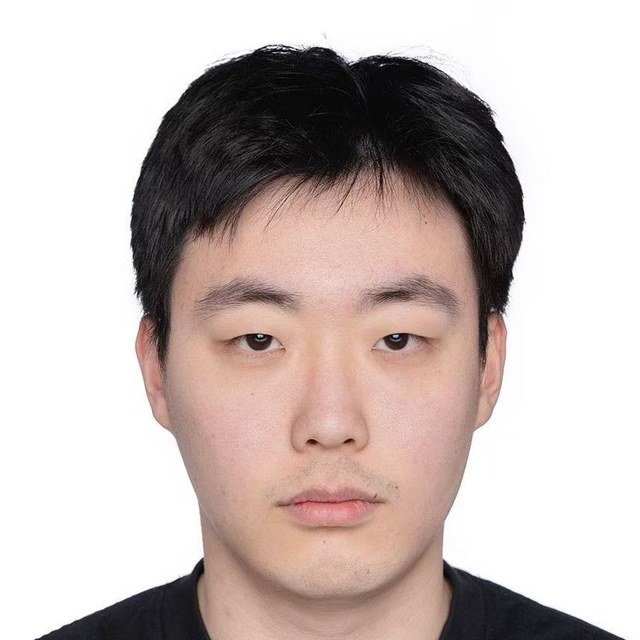
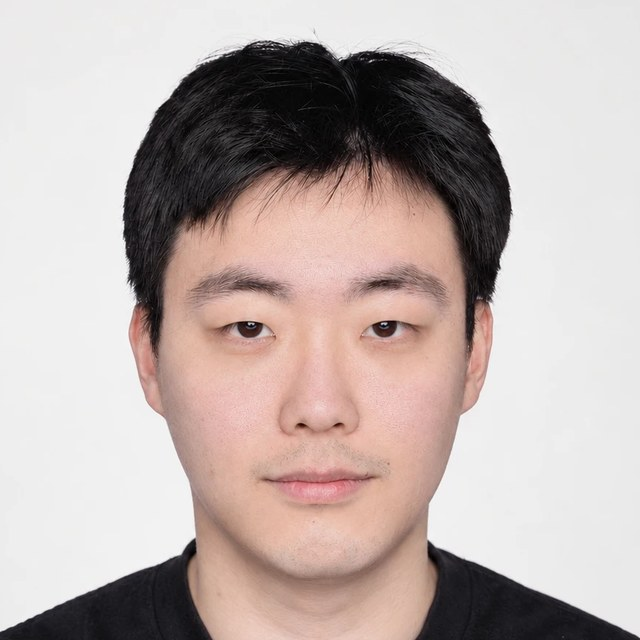
Use the chosen smiling photo

diff --git a/index.html b/index.html
@@ -252,7 +252,7 @@
     <section class="hero">
       <div class="wrap">
         <figure class="portrait">
-          <img src="photo.jpg?v=2" width="640" height="640" alt="Photo of Rongzhou (Paul) Gong">
+          <img src="photo.jpg?v=3" width="640" height="640" alt="Photo of Rongzhou (Paul) Gong, smiling">
         </figure>
         <div>
           <p class="badge"><span class="dot" aria-hidden="true"></span>Open to analytics internships for 2027</p>
